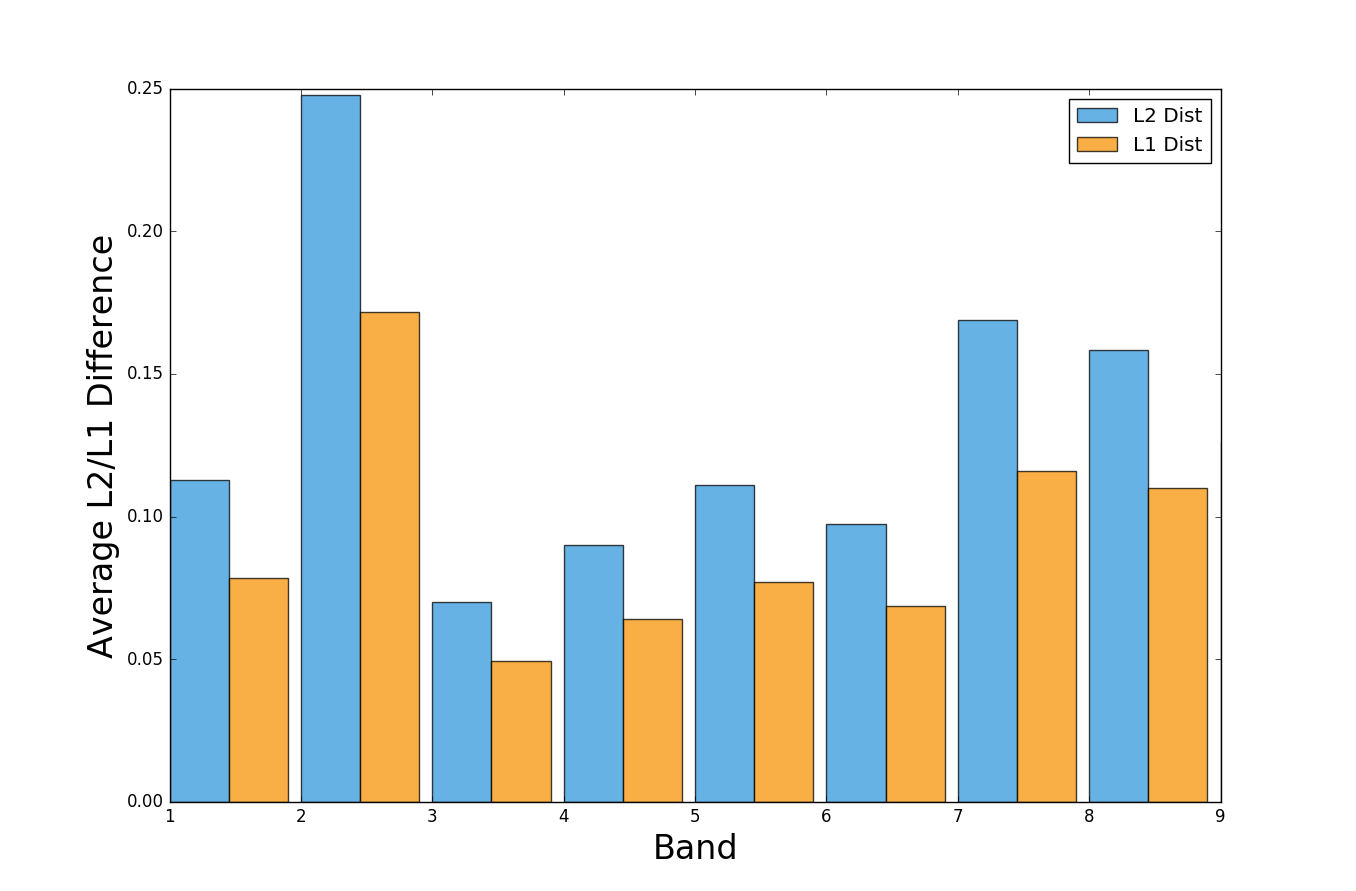
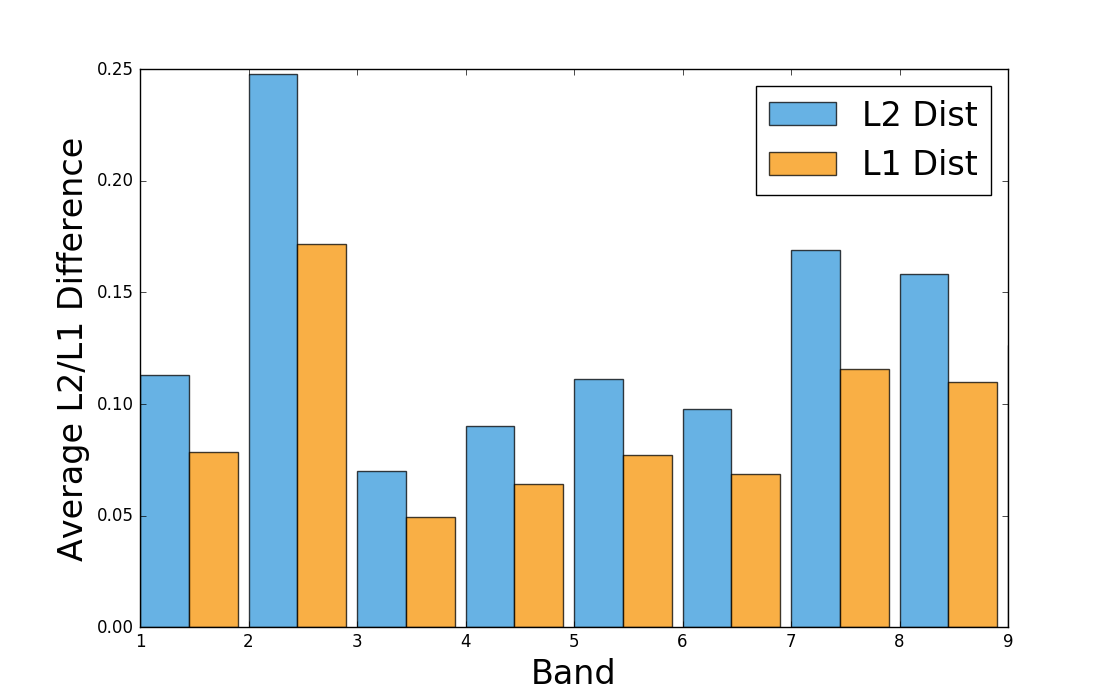
fixed legend sizes

diff --git a/poster/sal_map_stats/sal_map_charts.py b/poster/sal_map_stats/sal_map_charts.py
@@ -32,7 +32,7 @@ ax.xaxis.set_major_formatter(mdates.DateFormatter('%b, \'%y'))
 ax.set_xlim(datetime.date(YEAR, 1, 1), datetime.date(YEAR, 12, 31))
 ax.set_xlabel('Time of Year', fontsize=24)
 ax.set_ylabel('Average L2/L1 Difference', fontsize=24)
-ax.legend()
+ax.legend(prop={'size':22})
 plt.show()
 
 # Relative Importance of Bands
@@ -43,12 +43,5 @@ plt.bar(bands + bar_width, l1_dist(soy_maps, corn_maps, axis=(0,1,2)), bar_width
 plt.xlim(1,9)
 plt.xlabel('Band', fontsize=24)
 plt.ylabel('Average L2/L1 Difference', fontsize=24)
-plt.legend()
-plt.show()
-
-plt.bar(np.arange(soy_maps.shape[1]), l2_dist(soy_maps, corn_maps, axis=(0,2,3)), color=PLOT_COLORS[0], alpha=0.75)
-plt.show()
-
-plt.hist(l2_dist(soy_maps, corn_maps, axis=(1,2,3)), bins=30, color=PLOT_COLORS[2], alpha=0.75)
-plt.hist(l1_dist(soy_maps, corn_maps, axis=(1,2,3)), bins=30, color=PLOT_COLORS[3], alpha=0.75)
+plt.legend(prop={'size':24})
 plt.show()
